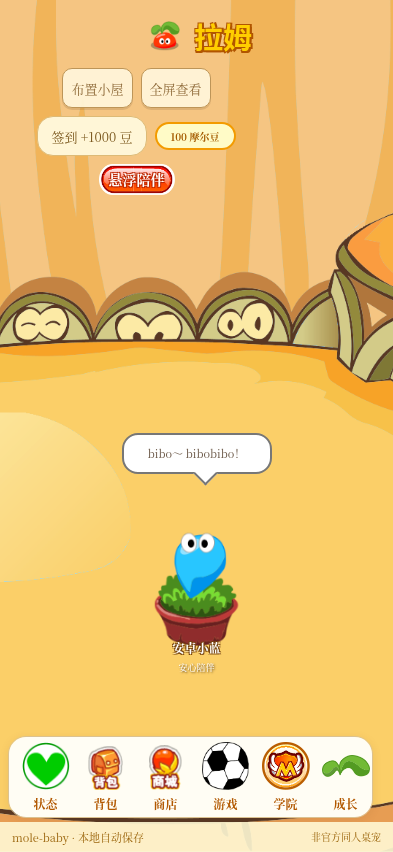
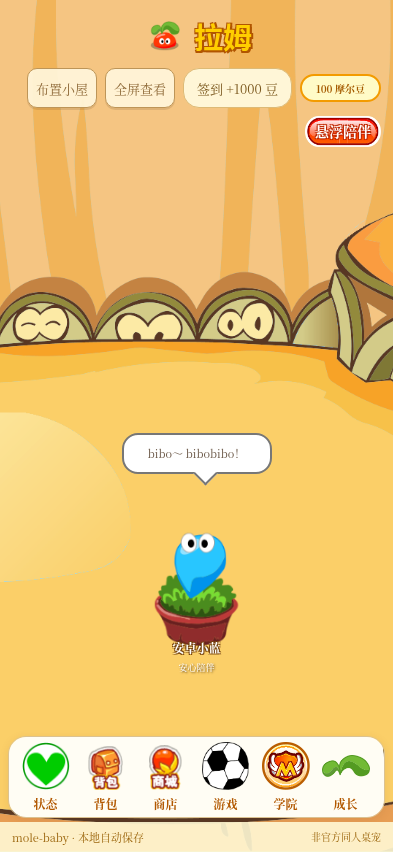
Record completed Android native validation and preview screenshots [skip ci]

Changed region(s): [[0.0611, 0.061, 0.9771, 0.2441], [0.916, 0.8545, 1.0, 0.9765]]

diff --git a/research/android-takeover-validation.md b/research/android-takeover-validation.md
@@ -1,0 +1,42 @@
+# 安卓接手开发与验收（2026-10-30）
+
+开发分支 `preview/android-mobile`。本轮只开发、验证和更新预览，不创建安卓 Release，不修改桌面 latest。原生修复源提交 `d4acf3e7056a0f5f2667c8e69062a928b511bf4b`。
+
+## 完成的修复
+
+1. 旋转验证使用只存在于测试 APK 的 `RotationFixtureActivity`：关闭小屋 Activity 后，打开真正请求横屏的其他应用，先核对物理屏幕确实变为横屏，再检查悬浮服务定位。避免 AOSP 桌面的竖屏锁定让测试根本没有发生旋转。首次进入悬浮与旋转共用限位规则，旧屏幕保存的越界坐标会恢复到完整可见范围。普通悬浮按完整160×240基准在新屏幕内限位；大法术只移动原尺寸窗口，主动收纳则保持原边。保留横屏截图与显示诊断。
+2. `PetController.leaveOverlay()` 统一游戏按钮和通知栏回小屋的退出过程：先还原特效窗口和背包面板的角色锚点，再清除偏移、拖动、边缘状态并恢复160×240基准。原生用例检查通知打断特效／面板后再次进入悬浮模式的尺寸和位置。
+3. 手机横屏的小屋地面曾因上下边界相等而无法点击，现在短屏保留48px触摸带；普通桌面尺寸的行走范围保持原有规则。增加边界单元测试和真实触摸移动验证。
+4. 矮横屏的提示气泡改放在拉姆朝屏幕内侧的一边，避开顶部按钮与底部导航；随角色走过屏幕中线切换方向。手机顶部按钮和导航解除桌面布局宽度限制。
+5. WebView最低检查调整为108，与动态视口布局的实际支持范围一致；过旧版本提示升级。
+6. 安卓CI保留依赖、前端测试／构建、资源打包、浏览器、Gradle和模拟器日志；构建阶段失败也能通过 `build-reports` 分支读取诊断。
+7. 原生手指点击先等待WebView的真实画面提交，再重新测量控件位置，单次注入并要求受信任的点击事件；同时保留按下、抬起和取消事件，避免只凭DOM准备好就认定物理点击已完成。没有添加点击重试或脚本点击。
+
+## 本地结果
+
+- 47个Vitest文件、387项测试通过；152项Node测试通过，共539项。
+- TypeScript检查与最终生产构建通过。1126张PNG转无损WebP：141.26→92.14MB，透明度与可见像素核对通过。
+- 开发与最终生产构建均通过393×852手机、360×640窄屏手机、852×393横屏手机、1280×800平板交互。覆盖领养、原素材、商店购买、背包使用、存档写入失败回滚、课程按期结算一次、游戏返回、专注计时重启恢复、悬浮界面及设置。
+- 真实触摸横向滑动导航能到达末尾设置；真实点击横屏地面可以移动拉姆，气泡随位置换边且不遮挡上下控件。没有用强制点击绕过遮挡。
+- 共用逻辑的桌面小屋回归通过：连续移动、墙面排除、键盘、触摸打断、减少动态效果、实际音乐播放与课程存档迁移。
+- 安卓资源包2646个文件、550416606字节（约525MiB）。逐个解压核对全部文件SHA256与ZIP CRC，分块索引覆盖完整包，包中不包含可执行JS／HTML／DEX／SO。
+
+## 原生模拟器
+
+[Android 15 / API35 原生流水线](https://github.com/Vinci-217/mole-baby/actions/runs/41012609568)已成功，源提交 `d4acf3e7056a0f5f2667c8e69062a928b511bf4b`；[完整独立回执](android-takeover-native-receipt.json)从 `build-reports` 取回并核对源SHA及状态。
+
+- Gradle `assembleDebug`、JVM单元测试及 `lintDebug` 全部通过；CI也重跑了四种布局的生产浏览器交互。
+- 真实WebView原生用例通过（57.703秒）：手指拖动、小屋／悬浮共用实例、首次恢复越界旧坐标、后台音乐、无小屋Activity时切换真实横屏并重新定位、边缘收纳／探头及保持收纳状态旋转、触摸穿透与通知栏恢复、通知打断特效／面板后的锚点复原、Activity重建及素材保持可用。
[1 lines of base64/hex data omitted]
+- 重建后的更高versionCode APK已经用 `adb install -r` 实际覆盖安装，升级存档用例通过（4.38秒）：原生和网页的宠物身份、名字、原素材与小屋入口均保留。此项不冒充用户点击系统安装器或公开安卓渠道升级测试。
+- [原生小屋](../docs/previews/android/native-house.png)和[测试专用横屏应用上的原生悬浮](../docs/previews/android/native-floating-landscape.png)来自这次模拟器截图，并已实际查看。
+
+开发APK在上述成功运行的 `android-preview-*` 附件中，文件名 `mole-baby-android-preview-dev.apk`。未创建安卓Release或公开更新渠道；不同开发构建的临时签名可能不同，跨构建安装前先导出存档。
+
+## 画面
+
+[手机小屋](../docs/previews/android/phone-house.png) · [窄屏手机](../docs/previews/android/phone-small-house.png) · [横屏移动与提示](../docs/previews/android/phone-landscape-speech.png)
+
+## 验证范围
+
+本环境没有安卓SDK／KVM，原生构建与Android模拟器通过仓库现有CI运行。模拟器通过也不代表所有品牌真机通过；厂商后台限制、通知权限、长时间锁屏、来电中断及系统安装器由用户确认的流程，仍需目标设备验证。首次离线素材仍较大，本轮没有把差量更新说成缩小首次安装包。

diff --git a/docs/ANDROID.md b/docs/ANDROID.md
@@ -91,3 +91,9 @@ Windows 使用 `gradlew.bat`。构建所需的 JDK / SDK、私钥、生成的素
 - CI 的 Android 模拟器脚本检查原生 WebView、小屋 / 悬浮往返、种子拖动收纳、恢复触摸，并实际安装更高版本 APK 后核对原生和网页存档。
 - 原生测试结束后，复用工程已有的 `build-reports` 分支记录日志与测试截图，路径为 `reports/jobs/<源代码 SHA>/android.json`。Actions API 不可用时仍可通过 Git 核对这份记录；失败或缺失的记录不能解释为通过。
 - 模拟器通过不等于真机通过。发布前仍需在目标品牌设备验证悬浮窗、触摸穿透、长时间后台、来电音频中断和用户点击系统安装器的完整流程。
+
+## 本轮接手验收（2026-10-30）
+
+已修复通知栏回小屋时的特效／背包锚点恢复、手机横屏地面无法点击及提示气泡遮挡。四种屏幕布局、539项前端／Node测试和Android15模拟器原生流程通过；更高版本APK实际覆盖安装后存档保留。本次受控APK差量测试复用约556MB数据，下载约266KB，不能据此保证每次升级的下载量。
+
+[修复、截图与验证范围](../research/android-takeover-validation.md) · [成功构建与开发APK](https://github.com/Vinci-217/mole-baby/actions/runs/41012609568)。
